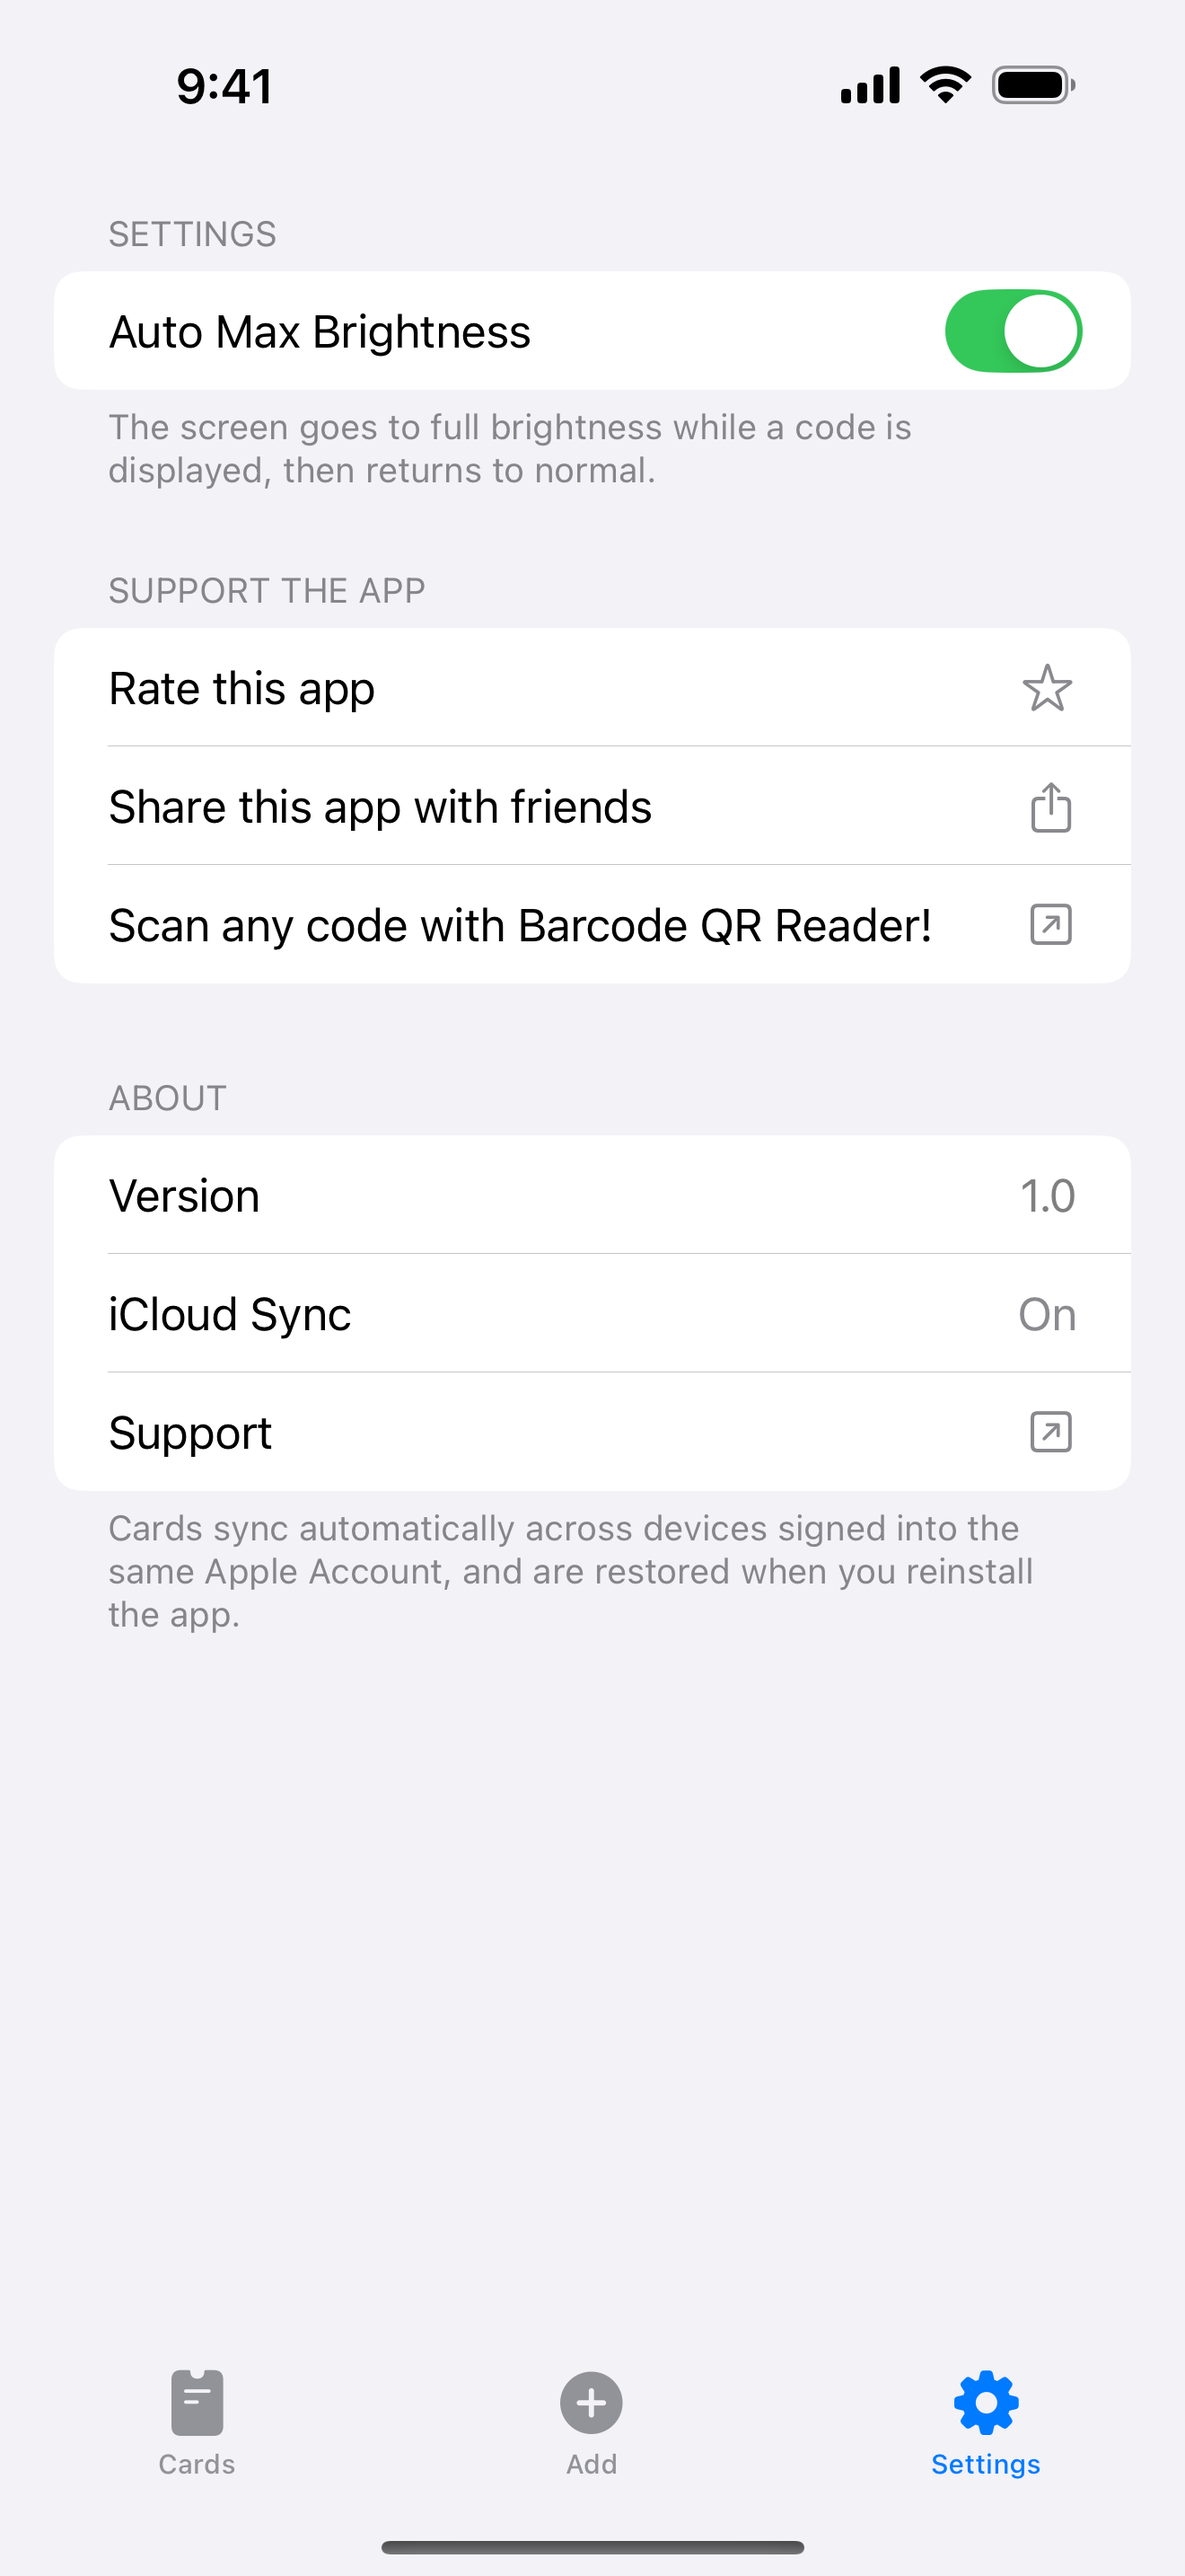
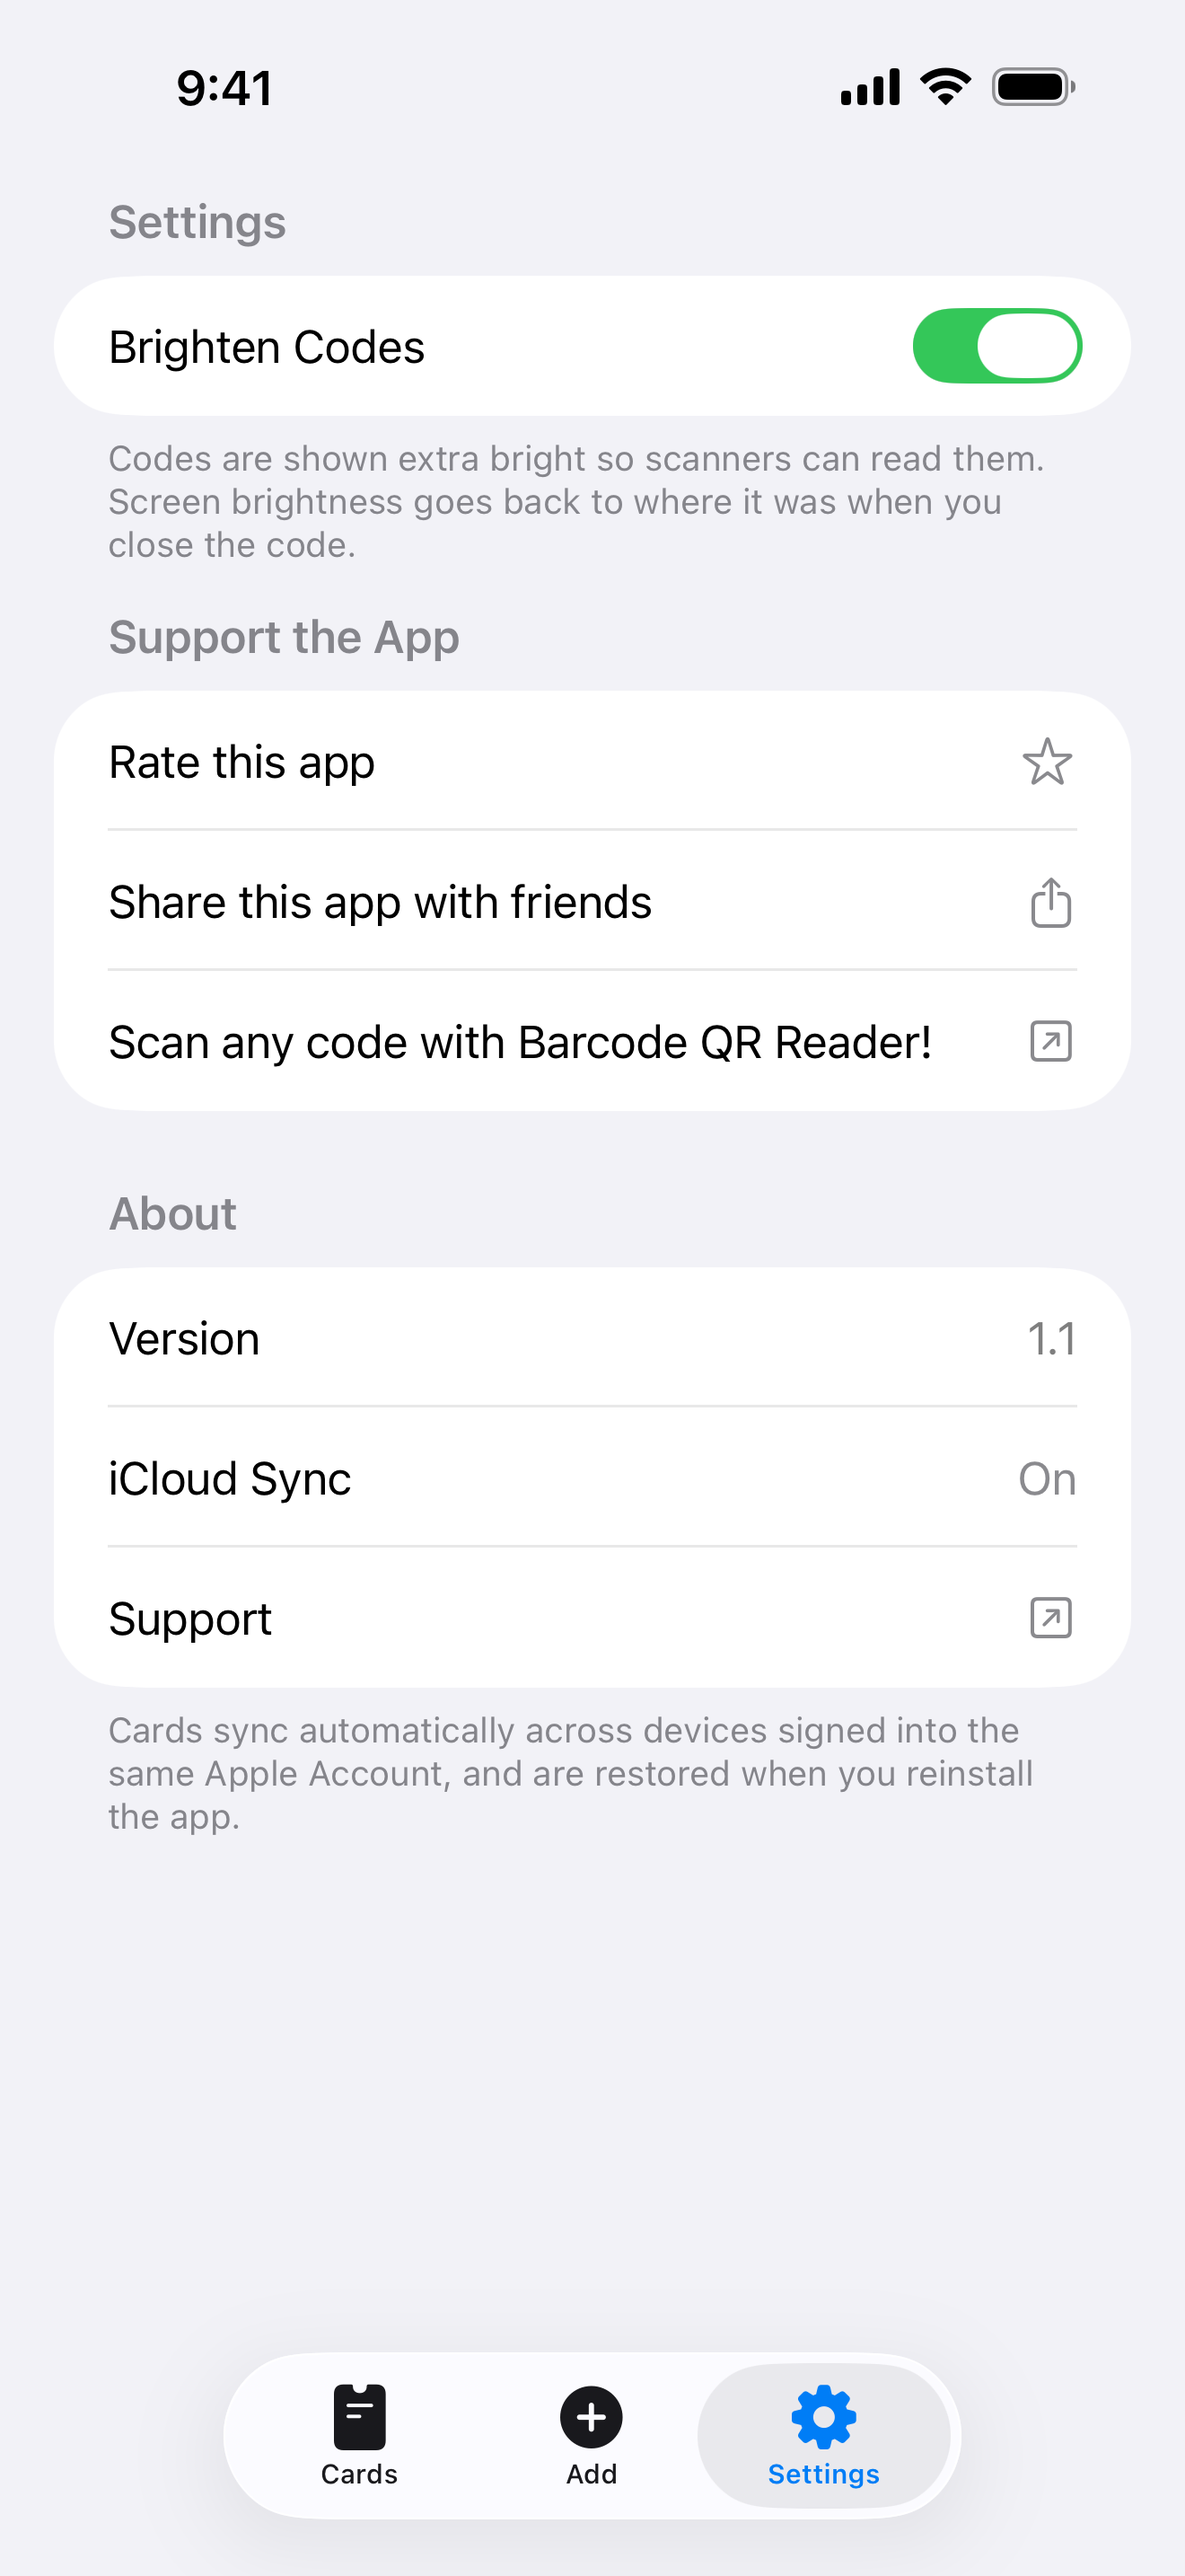
Membership Navi: new screenshots, Arabic set

diff --git a/docs/membershipnavi/ar/index.html b/docs/membershipnavi/ar/index.html
@@ -104,13 +104,13 @@
 <h2 class="section-h2 section-anchor" id="manual">الدليل</h2>
 
 <div class="screenshots">
-  <img src="../images/screenshots/en/cards.png" alt="شاشة قائمة البطاقات">
-  <img src="../images/screenshots/en/card.png" alt="بطاقة معروضة على شاشة iPhone كاملة">
+  <img src="../images/screenshots/ar/cards.png" alt="شاشة قائمة البطاقات">
+  <img src="../images/screenshots/ar/card.png" alt="بطاقة معروضة على شاشة iPhone كاملة">
 </div>
 
 <div class="screenshots watch">
-  <img src="../images/screenshots/en/watch-cards.png" alt="قائمة البطاقات على Apple Watch">
-  <img src="../images/screenshots/en/watch.png" alt="البطاقة نفسها معروضة على Apple Watch">
+  <img src="../images/screenshots/ar/watch-cards.png" alt="قائمة البطاقات على Apple Watch">
+  <img src="../images/screenshots/ar/watch.png" alt="البطاقة نفسها معروضة على Apple Watch">
 </div>
 
 <h3>بطاقاتك</h3>
@@ -123,9 +123,9 @@
 
 <h3>إضافة بطاقة</h3>
 <div class="screenshots">
-  <img src="../images/screenshots/en/scan.jpg" alt="إضافة بطاقة بالكاميرا" loading="lazy">
-  <img src="../images/screenshots/en/photo.png" alt="إضافة بطاقة من صورة" loading="lazy">
-  <img src="../images/screenshots/en/typed.png" alt="إدخال رقم العضوية يدويًا" loading="lazy">
+  <img src="../images/screenshots/ar/scan.jpg" alt="إضافة بطاقة بالكاميرا" loading="lazy">
+  <img src="../images/screenshots/ar/photo.png" alt="إضافة بطاقة من صورة" loading="lazy">
+  <img src="../images/screenshots/ar/typed.png" alt="إدخال رقم العضوية يدويًا" loading="lazy">
 </div>
 <p>يوفّر تبويب <b>إضافة</b> ثلاث طرق. اضغط على أداة التبديل في الأعلى، أو اسحب بينها:</p>
 <ul>
@@ -135,11 +135,15 @@
 </ul>
 <p>أثناء المسح لا تعرض الشاشة سوى الكاميرا، بلا نماذج لتعبئتها. وعند العثور على رمز يؤكده التطبيق ويعرض لك الرقم المقروء، لتطابقه مع البطاقة في يدك قبل الحفظ. ثم تمنحها اسمًا ولونًا. وإذا بدا شيء غير صحيح، يعيدك زر <b>تجاهل</b> مباشرة إلى الكاميرا.</p>
 <div class="screenshots">
-  <img src="../images/screenshots/en/review.png" alt="تأكيد رمز ممسوح ثم تسميته" loading="lazy">
+  <img src="../images/screenshots/ar/review.png" alt="تأكيد رمز ممسوح ثم تسميته" loading="lazy">
 </div>
 <p>يمكنك أيضًا إرسال رمز من تطبيق آخر: التقط لقطة شاشة له، واضغط على مشاركة، واختر Membership Navi. يمسح التطبيق الصورة ويفتح شاشة التأكيد نفسها.</p>
 
 <h3>التعديل والحذف</h3>
+<div class="screenshots">
+  <img src="../images/screenshots/ar/swipe-delete.png" alt="سحب البطاقة إلى اليمين يُظهر زر الحذف" loading="lazy">
+  <img src="../images/screenshots/ar/swipe-edit.png" alt="سحب البطاقة إلى اليسار يُظهر زر التعديل" loading="lazy">
+</div>
 <p>اسحب بطاقة إلى اليمين لحذفها، أو إلى اليسار لتعديلها. يتيح لك التعديل تغيير الاسم وشريط اللون.</p>
 <p>في البطاقة الممسوحة يظهر الرقم وتنسيقه لكن لا يمكن تغييرهما. وهذا مقصود: يعيد التطبيق إنتاج الرمز تمامًا كما كان على بطاقتك، وتعديل القيمة يُخلّ بهذا الوعد بصمت. لتغيير رمز بطاقة ممسوحة، أضف البطاقة من جديد بمسحها. أما البطاقات التي أدخلتها يدويًا فتبقى قابلة للتعديل بالكامل.</p>
 
@@ -148,6 +152,9 @@
 <p>تظهر البطاقات الجديدة على الساعة بعد أن يُزامنها iCloud، وهو ما يستغرق عادةً لحظات. إذا ظهرت رسالة بأن البطاقة تعذّر إنشاء رمزها، افتحها مرة على iPhone وامنح المزامنة بعض الوقت.</p>
 
 <h3>الإعدادات</h3>
+<div class="screenshots">
+  <img src="../images/screenshots/ar/settings.png" alt="تبويب الإعدادات" loading="lazy">
+</div>
 <p>يتحكم خيار <b>تفتيح الرموز</b> في السطوع الموصوف أعلاه. أوقفه إذا كنت تفضّل ألا يغيّر التطبيق شاشتك.</p>
 <p><b>مزامنة iCloud</b> سطر حالة وليس مفتاحًا. يُظهر ما إذا كانت بطاقاتك تُزامَن، حتى لا يمر أي تعطل دون أن تلاحظه: إذا ذكر أنك لم تسجّل الدخول، سجّل الدخول إلى iCloud من تطبيق الإعدادات، وستُزامَن بطاقاتك وتُستعاد إذا أعدت التثبيت.</p>
 
